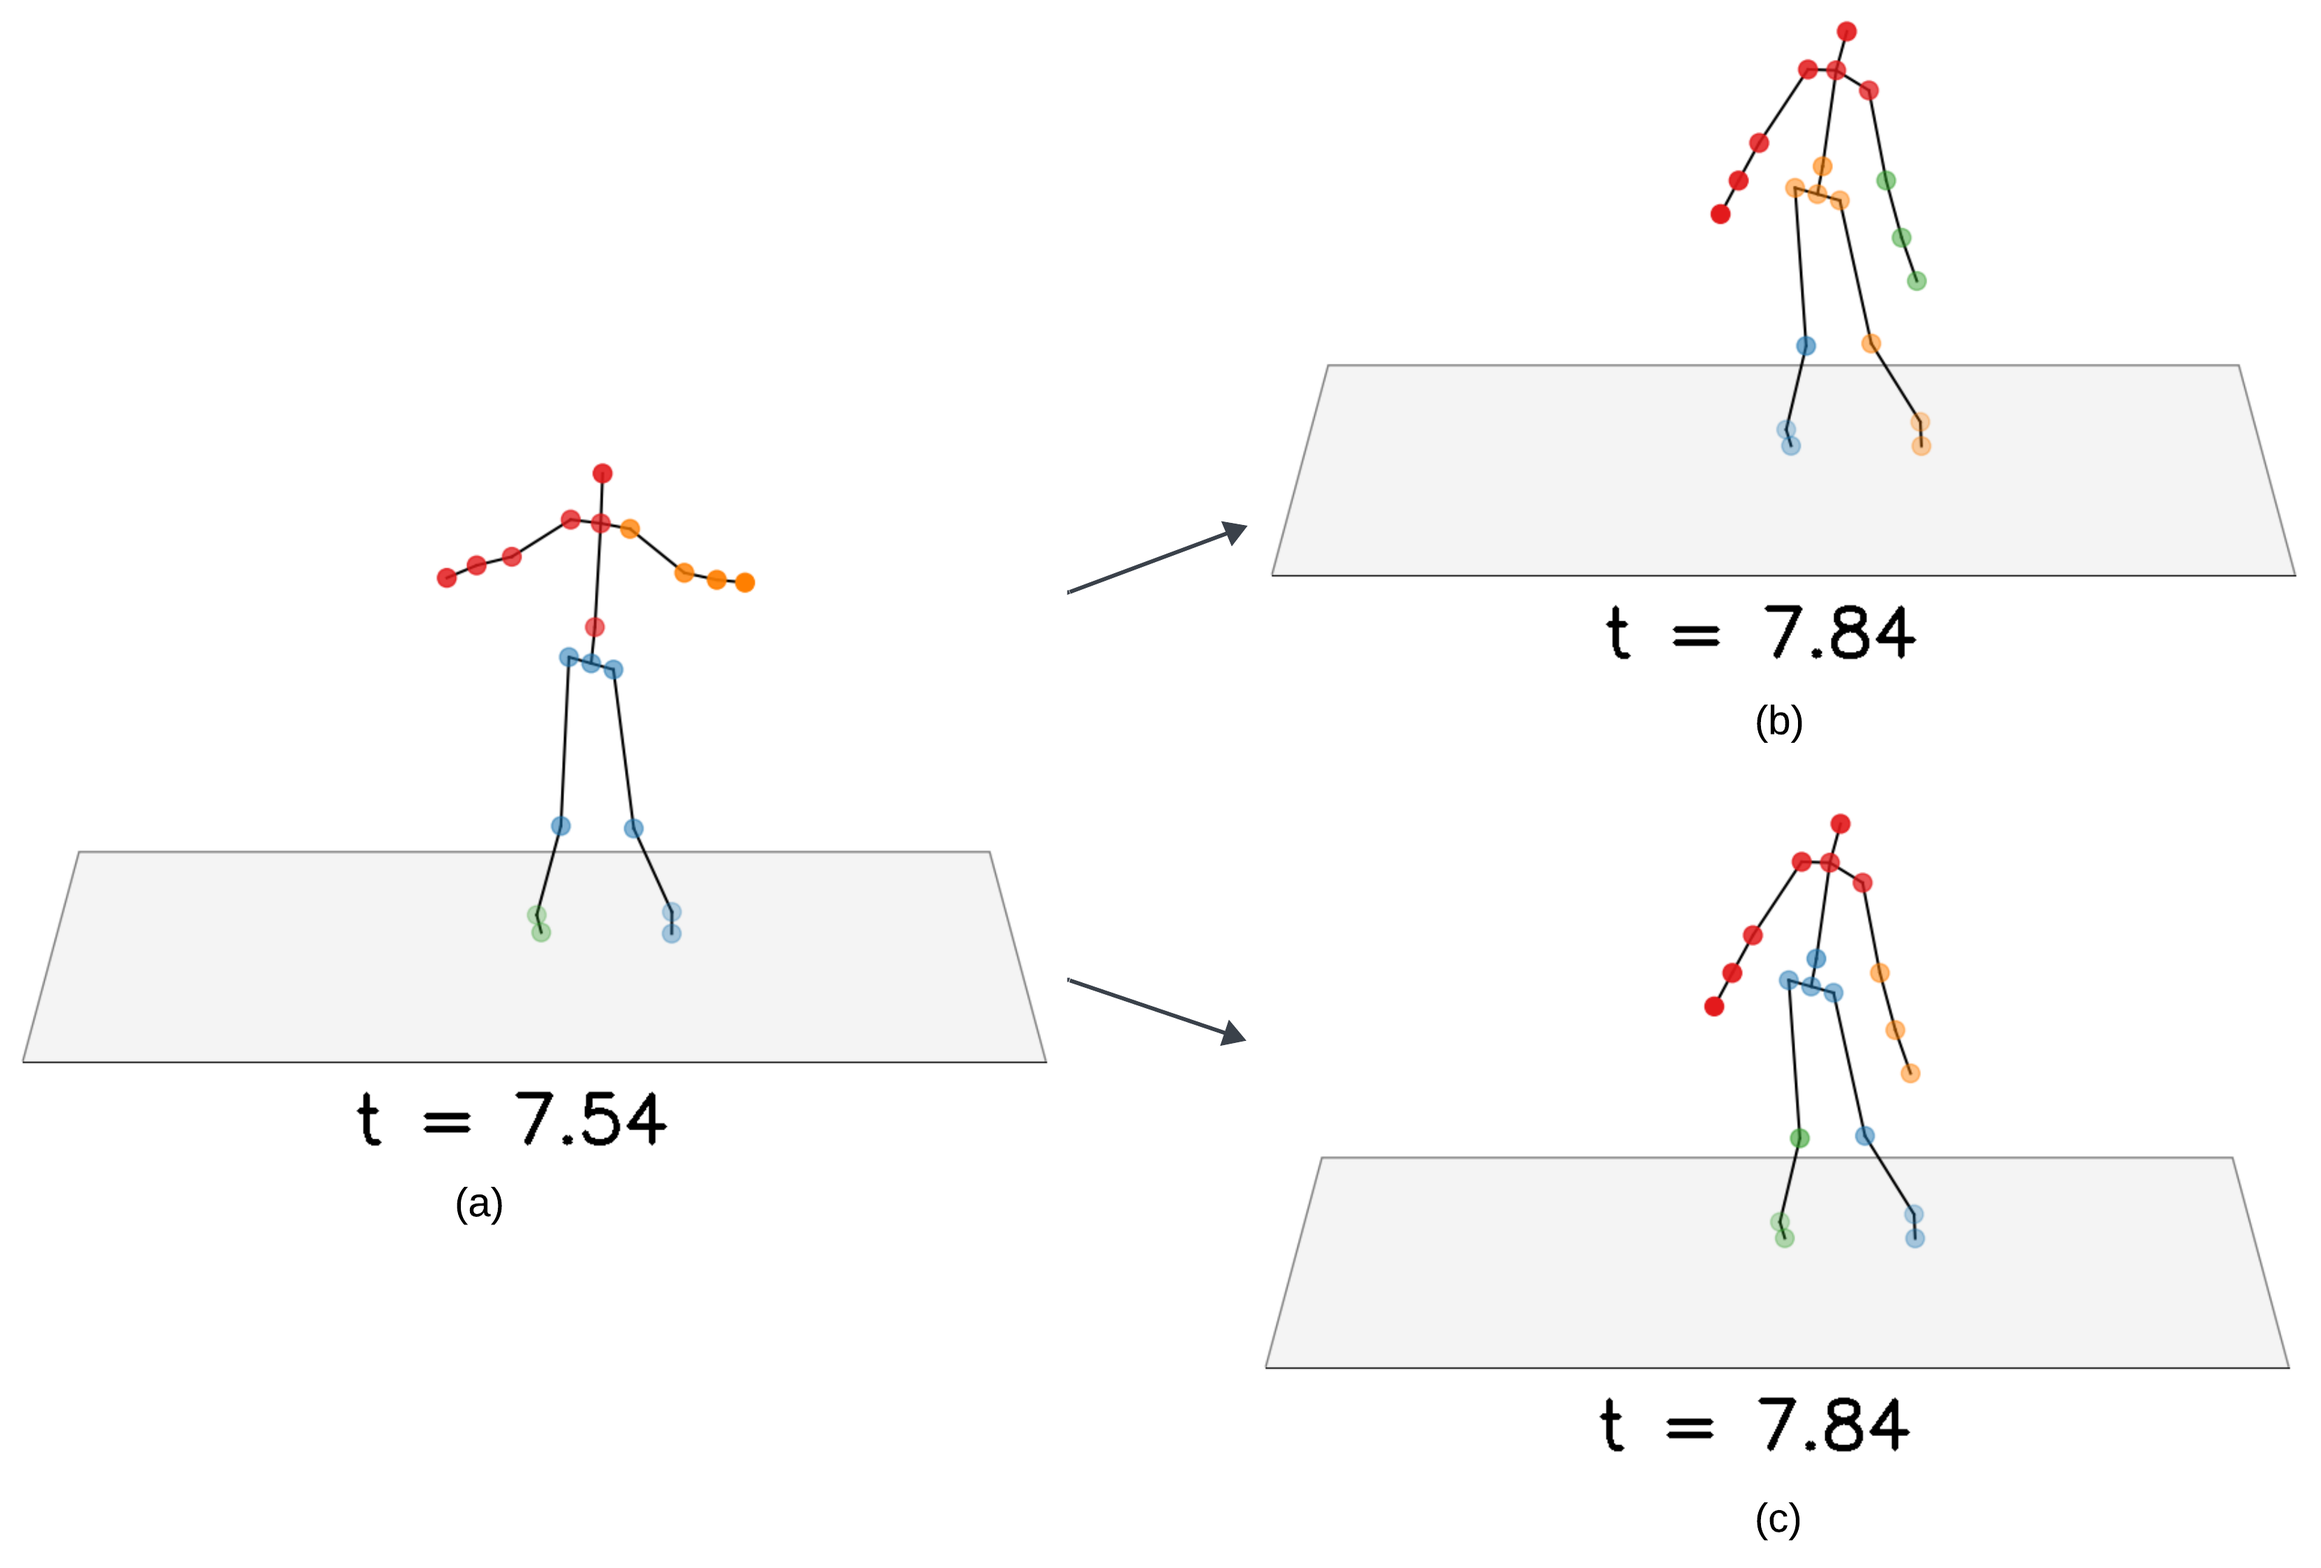
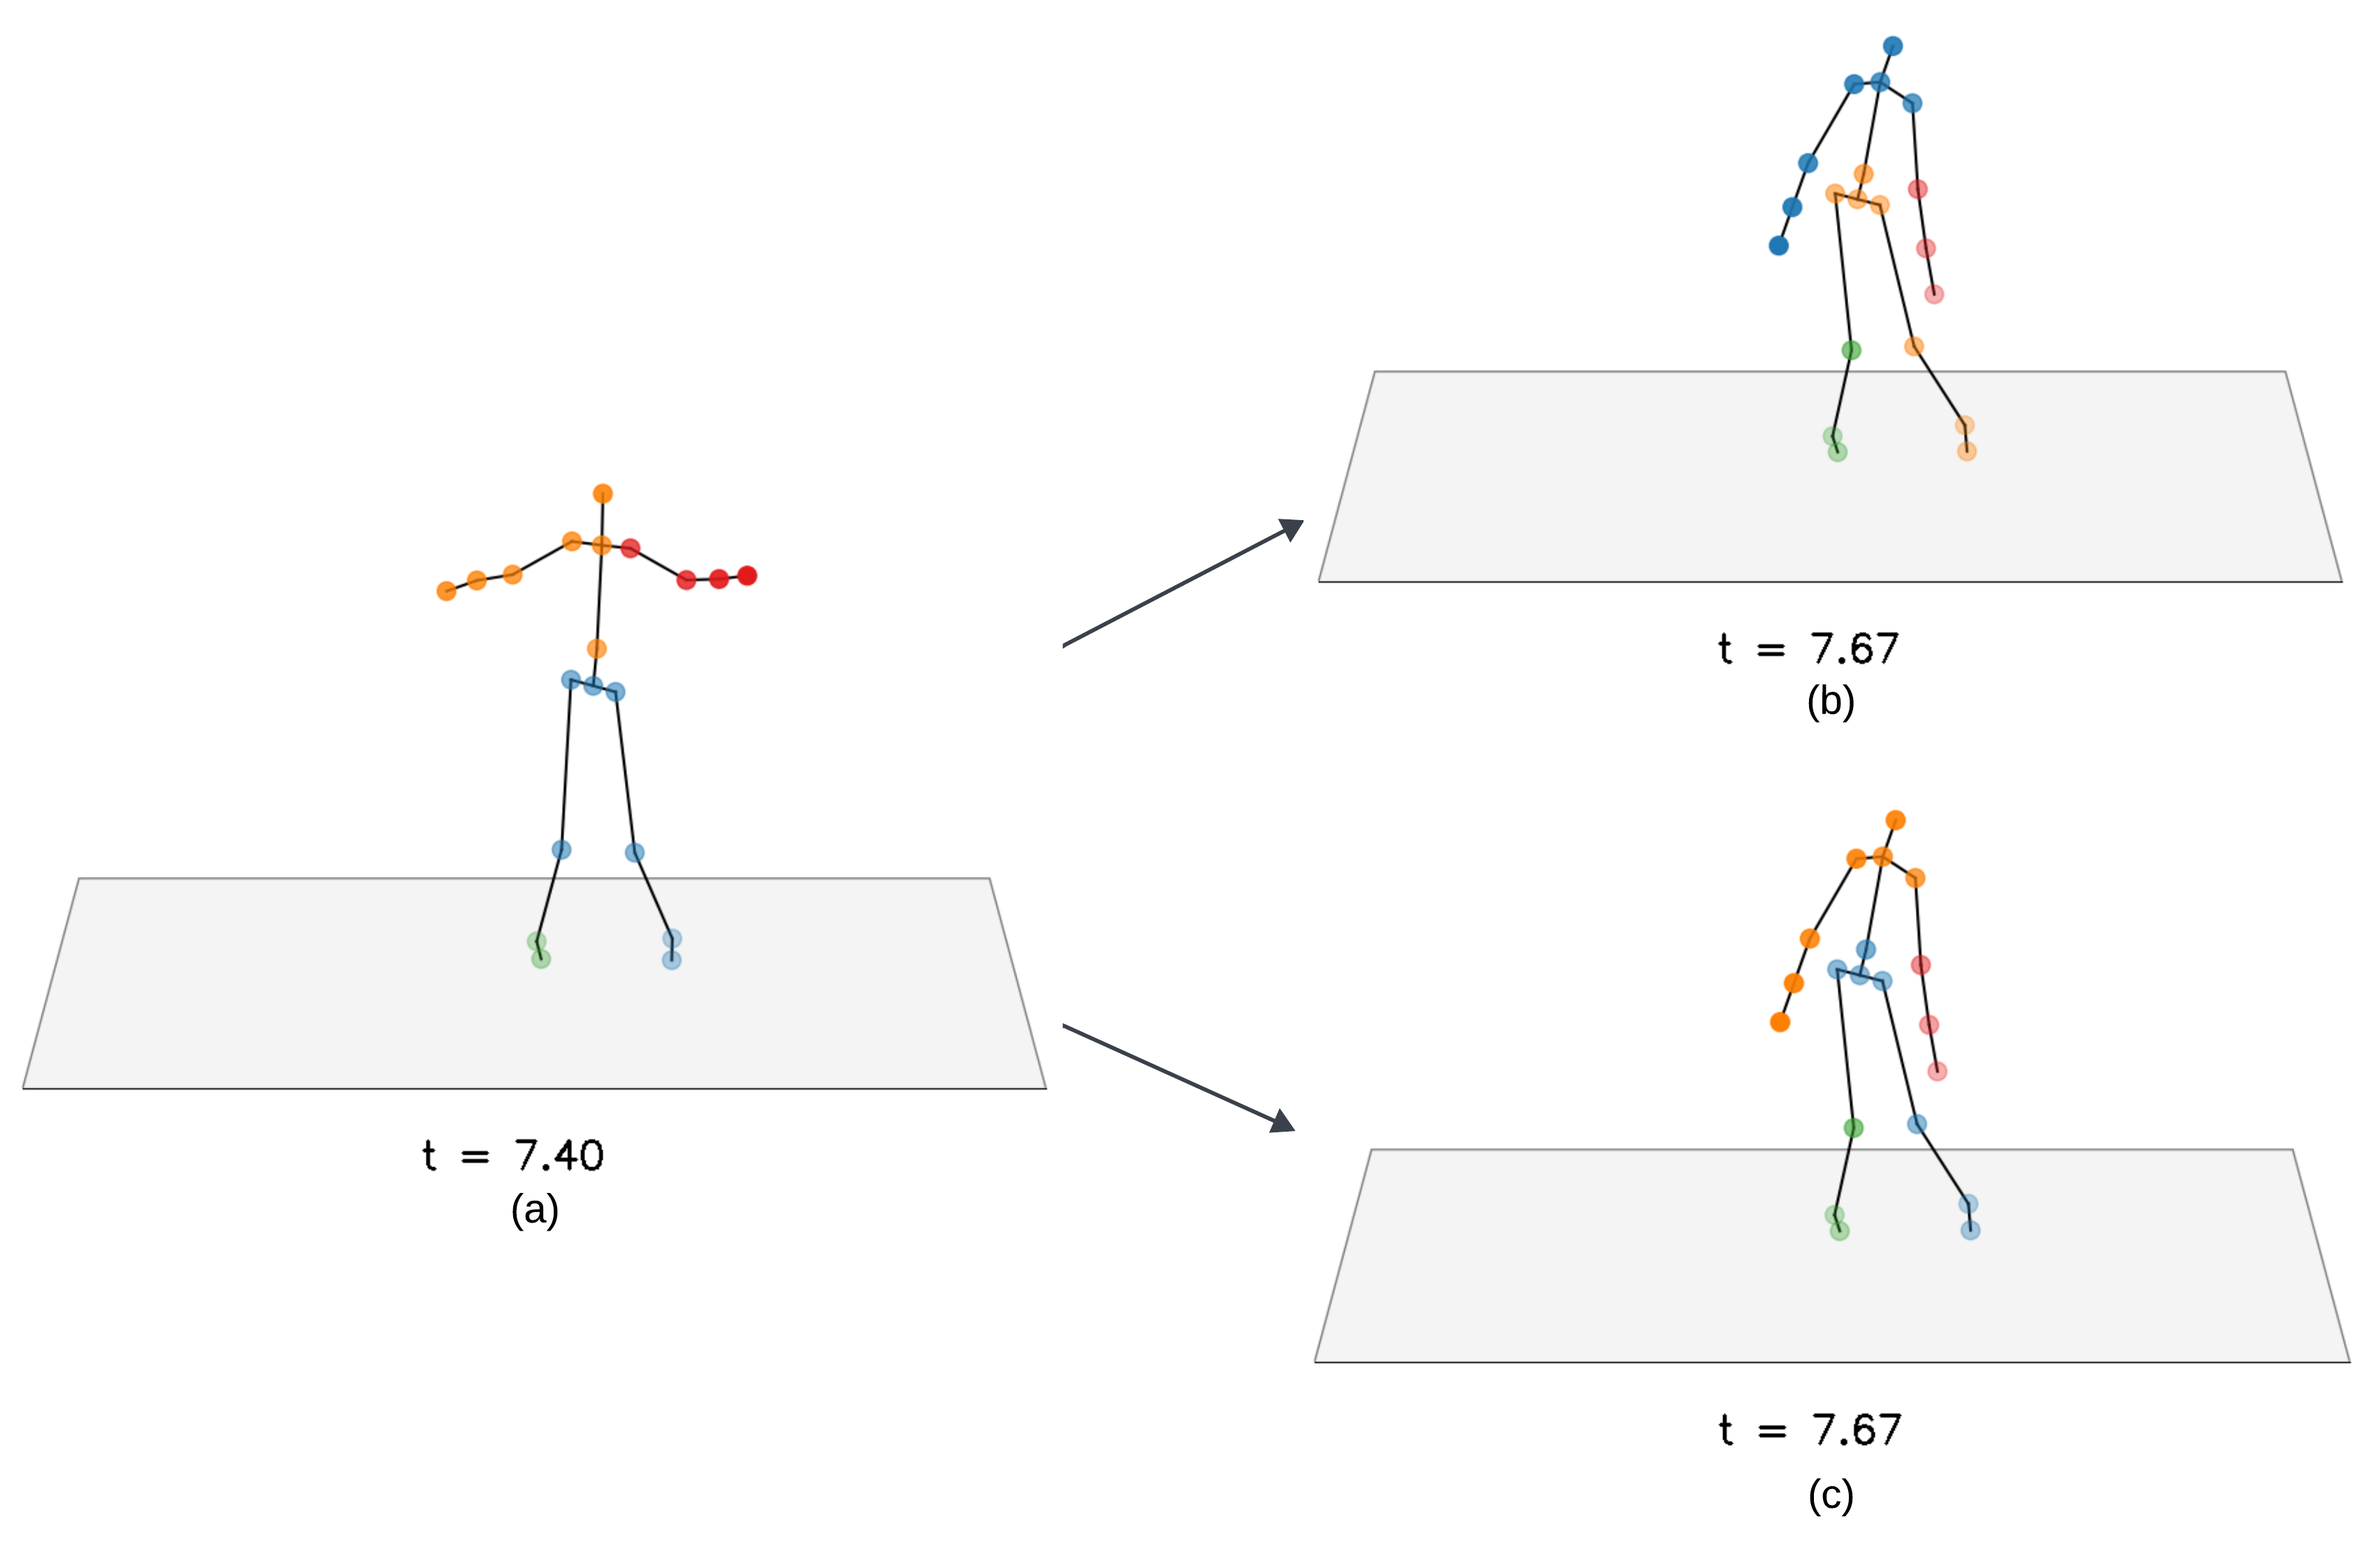
added todo and recalculated stabilization times

diff --git a/docs/thesis/chapters/conclusions.tex b/docs/thesis/chapters/conclusions.tex
@@ -51,5 +51,3 @@ There are several possible future extensions of this work, that could improve on
         Here, the group of individuals operates as a cohesive unit, where each person in the group takes on the role of a player. 
         This approach enables us to examine leading behaviors, including those exhibited by individual initiators whose movements influence the entire group.
 \end{itemize}
-
-As a result, our research aims to investigate the concept of movement origin in the context of leadership within these group dynamics.

diff --git a/docs/thesis/chapters/stabilization.tex b/docs/thesis/chapters/stabilization.tex
@@ -527,7 +527,7 @@ In (c) instead, the subsequent time instant with clusters stabilized.
 \begin{figure}[H]
   \centering
   \includegraphics[width=0.99\textwidth]{graphics/ClustersStabilization.png}
-  \caption{Clustering at $t=7.54$ (a), $t=7.84$ unstabilized (b), and $t=7.84$ stabilized (c).}
+  \caption{Clustering at $t=7.40$ (a), $t=7.67$ unstabilized (b), and $t=7.67$ stabilized (c).}
   \label{fig:stabilization_results}
 \end{figure}
 TODO redo this picture because t = something is a bit too big\\

diff --git a/docs/thesis/chapters/spectral_clustering.tex b/docs/thesis/chapters/spectral_clustering.tex
@@ -69,3 +69,5 @@ The order in which the various clusters are created and chosen is random, and th
     The recursive cluster splitting algorithm might generate different subclusters in various iterations due to variations in point weights or choices of optimal splitting points. These variations can result in slightly different data partitions.
 
 \end{enumerate}    
+
+TODO review explanation of spectral clustering
